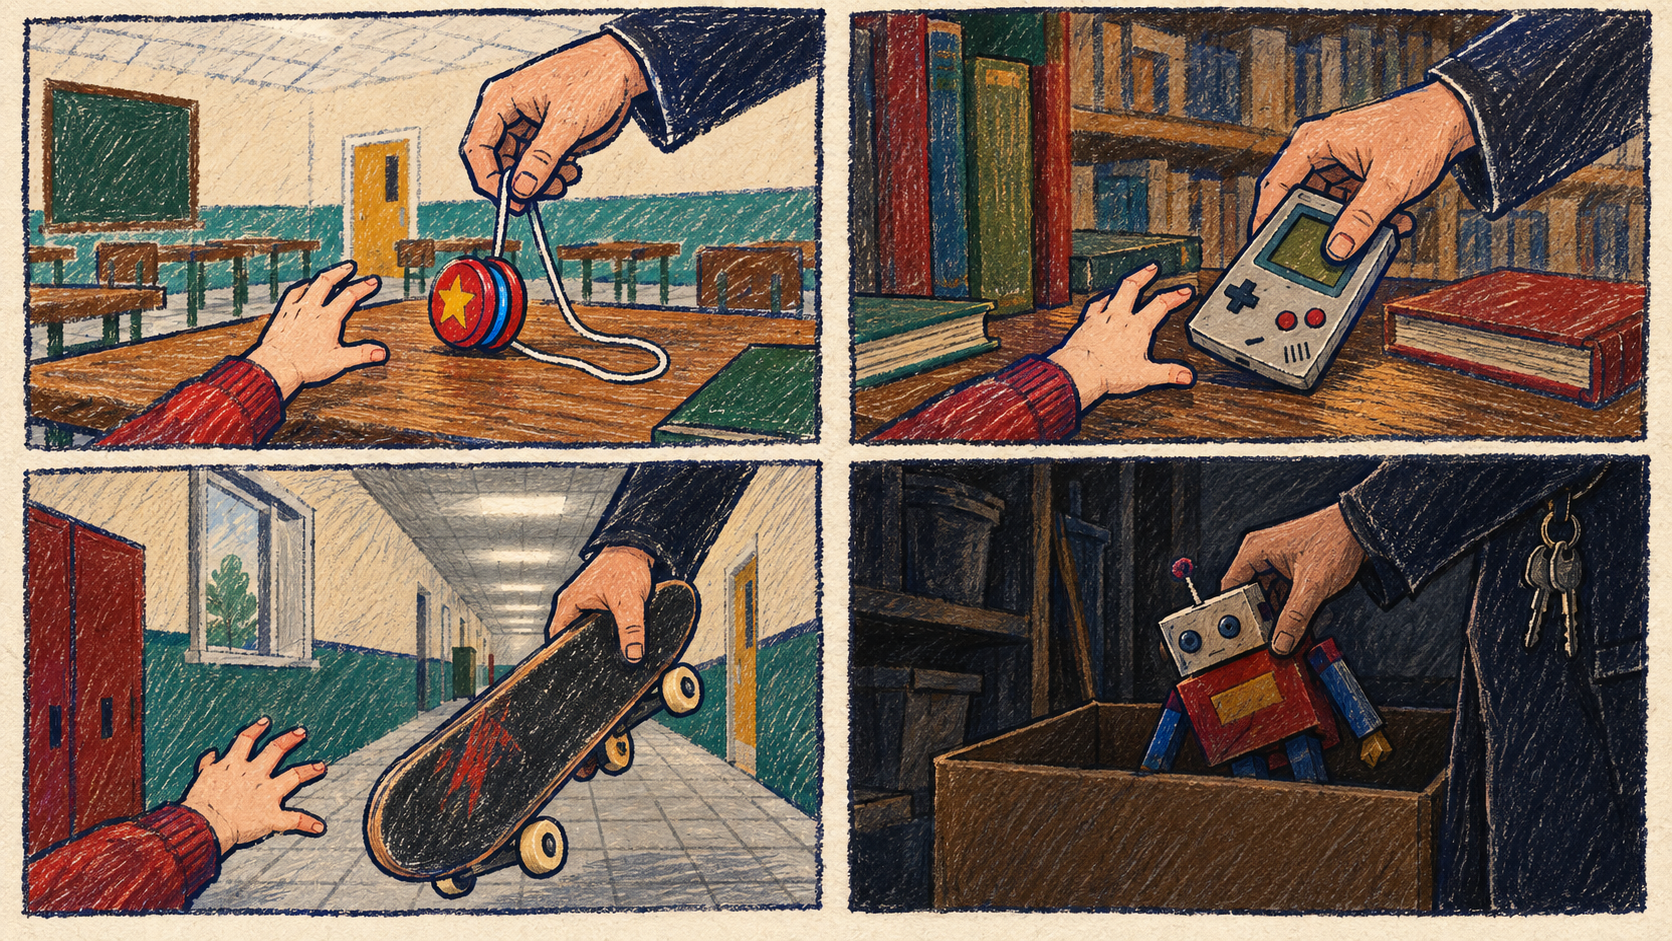
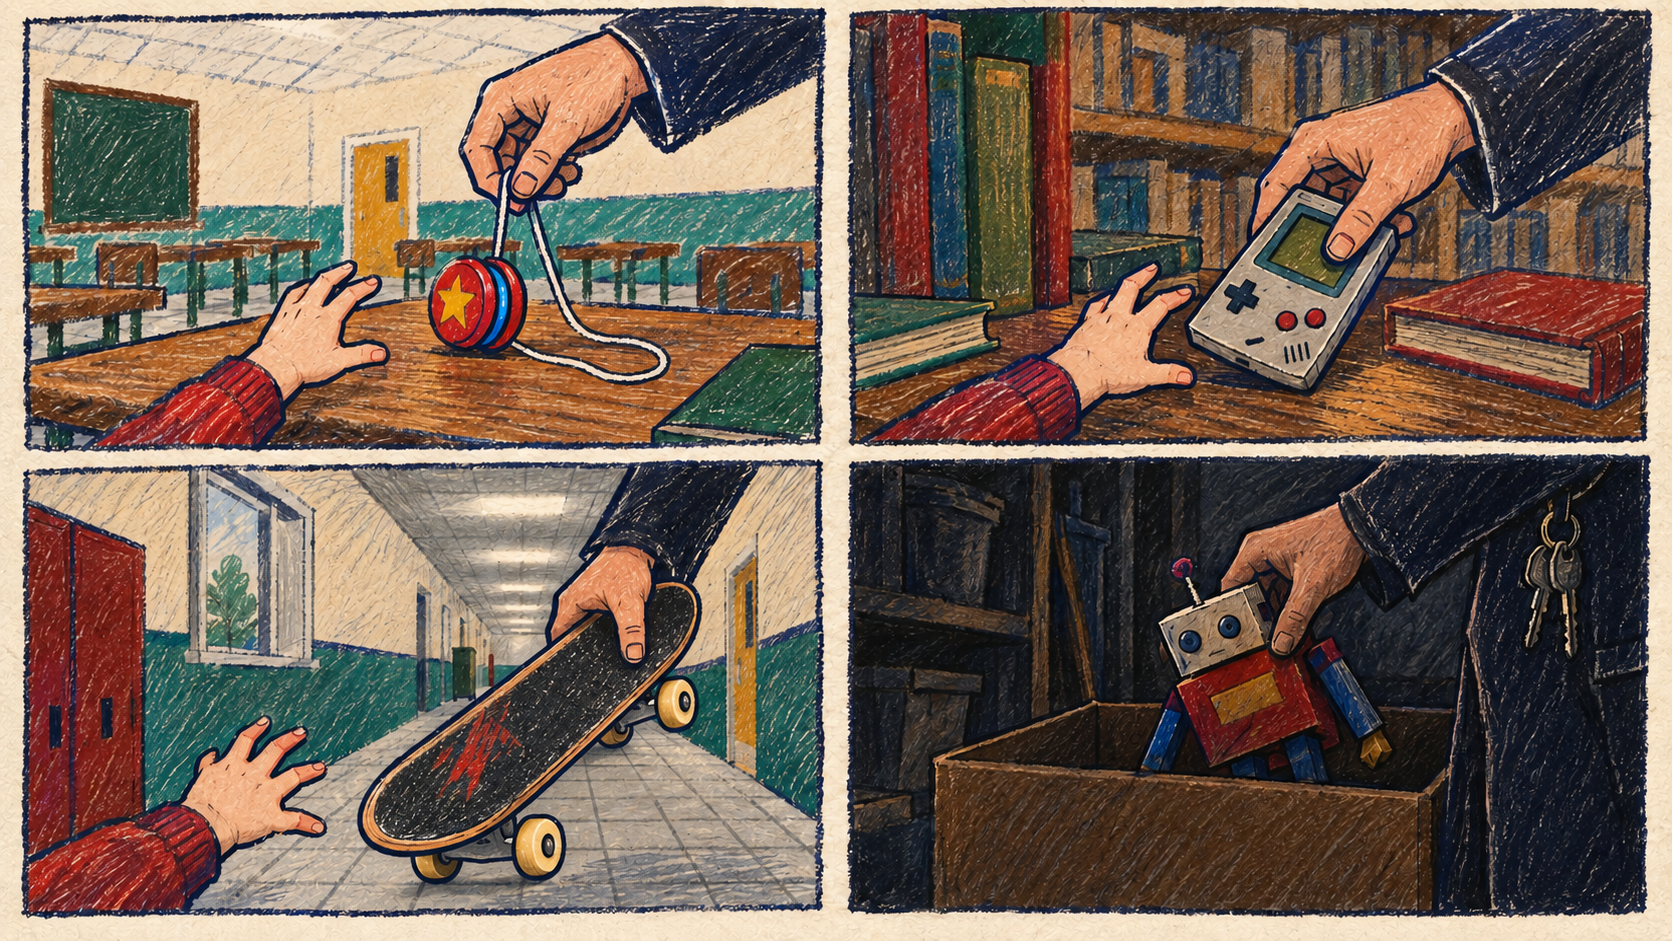
Move comic memory after phone confiscation and add motion shots

diff --git a/Assets/Scripts/Confiscated/OpeningDiaryComic.cs b/Assets/Scripts/Confiscated/OpeningDiaryComic.cs
@@ -1,11 +1,12 @@
 using System;
+using System.Collections.Generic;
 using UnityEngine;
 using UnityEngine.InputSystem;
 using UnityEngine.UI;
 
 namespace Confiscated
 {
-    /// <summary>A short illustrated diary entry before the live classroom phone incident.</summary>
+    /// <summary>Smith's moving diary recollection after the classroom phone confiscation.</summary>
     public sealed class OpeningDiaryComic : MonoBehaviour
     {
         static readonly string[] Lines =
@@ -14,9 +15,9 @@ namespace Confiscated
             "Then my game. I wasn't even playing it.",
             "The skateboard went next. The wheels hadn't touched the floor.",
             "Even my robot. The caretaker says I can have them back at the end of term.",
-            "That's four things. I'm getting them back before I go home."
+            "Now my phone makes five. I'm getting them all back today."
         };
-        static readonly float[] Seconds = { 4.8f, 4.8f, 4.8f, 6f, 5f };
+        static readonly float[] Seconds = { 3.6f, 3.6f, 3.6f, 4.2f, 4.5f };
         static readonly Color Paper = new Color(.95f,.91f,.77f), Ink = new Color(.07f,.09f,.13f);
 
         public static bool Show(FirstPersonController movement, PlayerInteractor interactor, Action finished)
@@ -32,9 +33,13 @@ namespace Confiscated
         PlayerInteractor interactor;
         Action finished;
         CanvasGroup group;
+        Canvas canvas;
+        readonly List<Canvas> hiddenCanvases=new();
         RectTransform page, frame;
+        Image background, headerBackdrop, footerBackdrop, transition;
         Image[] covers;
         Text caption, progress;
+        OpeningMemoryStage stage;
         float oldTime, startedAt, beatAt, skipHeld;
         bool oldMove, oldLook, oldInput, oldCursorVisible, ending;
         CursorLockMode oldCursorLock;
@@ -48,21 +53,25 @@ namespace Confiscated
             if(interactor!=null){oldInput=interactor.InputLocked;interactor.InputLocked=true;interactor.SuppressActionsThisFrame();}
             oldCursorLock=Cursor.lockState;oldCursorVisible=Cursor.visible;
             Cursor.lockState=CursorLockMode.None;Cursor.visible=false;
-            Build(art);beat=0;startedAt=beatAt=Time.unscaledTime;SetBeat();
+            Build(art);stage=OpeningMemoryStage.Create(art);
+            HideOtherCanvases();
+            beat=0;startedAt=beatAt=Time.unscaledTime;SetBeat();
         }
 
         void Build(Texture2D art)
         {
             var root=new GameObject("Diary canvas",typeof(Canvas),typeof(CanvasScaler),typeof(GraphicRaycaster),typeof(CanvasGroup));
             root.transform.SetParent(transform,false);
-            var canvas=root.GetComponent<Canvas>();canvas.renderMode=RenderMode.ScreenSpaceOverlay;canvas.sortingOrder=30001;
+            canvas=root.GetComponent<Canvas>();canvas.renderMode=RenderMode.ScreenSpaceOverlay;canvas.sortingOrder=30001;
             var scaler=root.GetComponent<CanvasScaler>();scaler.uiScaleMode=CanvasScaler.ScaleMode.ScaleWithScreenSize;
             scaler.referenceResolution=new Vector2(1920,1080);scaler.matchWidthOrHeight=1f;
             group=root.GetComponent<CanvasGroup>();group.blocksRaycasts=true;group.alpha=0;
-            var background=ImageRect("Ink surround",root.transform,Vector2.zero,new Vector2(1920,1080),new Color(.025f,.035f,.045f,1));
+            background=ImageRect("Ink surround",root.transform,Vector2.zero,new Vector2(1920,1080),new Color(.025f,.035f,.045f,1));
             background.rectTransform.anchorMin=Vector2.zero;background.rectTransform.anchorMax=Vector2.one;
             background.rectTransform.offsetMin=background.rectTransform.offsetMax=Vector2.zero;
             background.raycastTarget=true;
+            headerBackdrop=ImageRect("Memory heading backing",root.transform,new Vector2(0,478),new Vector2(1390,102),new Color(.025f,.035f,.045f,.88f));
+            headerBackdrop.raycastTarget=false;
             Label("DEAR DIARY...",root.transform,new Vector2(0,497),new Vector2(1300,65),50,Paper,TextAnchor.MiddleLeft);
             Label("MASTER SMITH  /  YEAR 6",root.transform,new Vector2(0,458),new Vector2(1300,35),23,new Color(.74f,.7f,.59f),TextAnchor.MiddleRight);
             page=Rect("Four confiscations",root.transform,new Vector2(0,22),new Vector2(1320,812));
@@ -81,8 +90,14 @@ namespace Confiscated
             var noteBorder=Rect("Pencil edge",note.transform,Vector2.zero,new Vector2(1370,122)).gameObject.AddComponent<SketchBorder>();
             noteBorder.color=Ink;noteBorder.raycastTarget=false;
             caption=Label("",note.transform,Vector2.zero,new Vector2(1260,90),34,Ink,TextAnchor.MiddleLeft);
+            footerBackdrop=ImageRect("Memory controls backing",root.transform,new Vector2(0,-516),new Vector2(1390,54),new Color(.025f,.035f,.045f,.9f));
+            footerBackdrop.raycastTarget=false;
             progress=Label("",root.transform,new Vector2(-545,-518),new Vector2(300,28),20,Paper,TextAnchor.MiddleLeft);
             Label("SPACE / CLICK: NEXT     HOLD ESC: SKIP",root.transform,new Vector2(355,-518),new Vector2(670,28),20,Paper,TextAnchor.MiddleRight);
+            transition=ImageRect("Ink cut",root.transform,Vector2.zero,new Vector2(1920,1080),new Color(.025f,.035f,.045f,0));
+            transition.rectTransform.anchorMin=Vector2.zero;transition.rectTransform.anchorMax=Vector2.one;
+            transition.rectTransform.offsetMin=transition.rectTransform.offsetMax=Vector2.zero;
+            transition.raycastTarget=false;
         }
 
         void Update()
@@ -102,6 +117,14 @@ namespace Confiscated
                 beatAt=now;SetBeat();
             }
             group.alpha=Mathf.Clamp01((now-startedAt)/.35f);
+            if(stage!=null)
+            {
+                float elapsed=now-beatAt,duration=Seconds[beat];
+                stage.Animate(beat,elapsed/duration);
+                float ink=elapsed<.22f?1-elapsed/.22f:beat<4&&duration-elapsed<.22f?1-(duration-elapsed)/.22f:0;
+                var shade=transition.color;shade.a=Mathf.Clamp01(ink);transition.color=shade;
+                return;
+            }
             for(int i=0;i<4;i++)
             {
                 var color=covers[i].color;
@@ -117,9 +140,28 @@ namespace Confiscated
             }
         }
 
+        void LateUpdate(){HideOtherCanvases();}
+
+        void HideOtherCanvases()
+        {
+            foreach(var other in FindObjectsByType<Canvas>(FindObjectsInactive.Include))
+                if(other!=canvas&&other.enabled&&other.gameObject.activeInHierarchy&&other.renderMode!=RenderMode.WorldSpace)
+                {hiddenCanvases.Add(other);other.enabled=false;}
+        }
+
         void SetBeat()
         {
-            caption.text=Lines[beat];progress.text=beat<4?"PAGE 1  /  "+(beat+1)+" OF 4":"PAGE 1  /  THE PLAN";
+            caption.text=Lines[beat];progress.text=beat<4?(stage!=null?"MEMORY  ":"PAGE 1  /  ")+(beat+1)+" OF 4":"PAGE 1  /  THE PLAN";
+            if(stage!=null)
+            {
+                stage.ShowBeat(beat);
+                page.gameObject.SetActive(beat==4);
+                headerBackdrop.gameObject.SetActive(beat<4);
+                footerBackdrop.gameObject.SetActive(beat<4);
+                var colour=background.color;colour.a=beat==4?1:0;background.color=colour;
+                foreach(var cover in covers){colour=cover.color;colour.a=0;cover.color=colour;}
+            }
+            else {headerBackdrop.gameObject.SetActive(false);footerBackdrop.gameObject.SetActive(false);}
             frame.gameObject.SetActive(beat<4);
         }
 
@@ -130,6 +172,9 @@ namespace Confiscated
             if(movement!=null){movement.MovementLocked=oldMove;movement.LookLocked=oldLook;}
             if(interactor!=null){interactor.InputLocked=oldInput;interactor.SuppressActionsThisFrame();}
             Cursor.lockState=oldCursorLock;Cursor.visible=oldCursorVisible;
+            stage?.Dispose();stage=null;
+            foreach(var other in hiddenCanvases)if(other!=null)other.enabled=true;
+            hiddenCanvases.Clear();
             var callback=finished;finished=null;Destroy(gameObject);callback?.Invoke();
         }
 

diff --git a/Assets/Scripts/Confiscated/OpeningMemoryStage.cs b/Assets/Scripts/Confiscated/OpeningMemoryStage.cs
@@ -1,0 +1,99 @@
+using System;
+using UnityEngine;
+
+namespace Confiscated
+{
+    /// <summary>A temporary, isolated 3D set for the moving shots in the diary opening.</summary>
+    internal sealed class OpeningMemoryStage
+    {
+        const int Layer = 31;
+        static readonly Vector2[] PanelOffsets =
+        {
+            new Vector2(0,.5f), new Vector2(.5f,.5f),
+            new Vector2(0,0), new Vector2(.5f,0)
+        };
+
+        GameObject root;
+        Camera camera;
+        Material paper,backing;
+        Transform panel;
+
+        public static OpeningMemoryStage Create(Texture2D art)
+        {
+            var stage=new OpeningMemoryStage();
+            try { stage.Build(art);return stage; }
+            catch(Exception error)
+            {
+                Debug.LogWarning("Opening memory stage unavailable; using the diary page. " + error.Message);
+                stage.Dispose();return null;
+            }
+        }
+
+        void Build(Texture2D art)
+        {
+            var shader=Shader.Find("Universal Render Pipeline/Unlit");
+            if(shader==null)throw new InvalidOperationException("URP Unlit shader missing.");
+            root=new GameObject("Opening memory set");root.transform.position=new Vector3(0,-100,0);
+
+            var cameraObject=new GameObject("Memory camera",typeof(Camera));
+            cameraObject.transform.SetParent(root.transform,false);
+            camera=cameraObject.GetComponent<Camera>();
+            camera.clearFlags=CameraClearFlags.SolidColor;
+            camera.backgroundColor=new Color(.02f,.033f,.043f);
+            camera.cullingMask=1<<Layer;camera.depth=100;
+            camera.nearClipPlane=.03f;camera.farClipPlane=30f;
+            camera.fieldOfView=48f;camera.allowHDR=false;
+
+            var page=GameObject.CreatePrimitive(PrimitiveType.Quad);
+            page.name="Moving illustrated memory";page.transform.SetParent(root.transform,false);
+            page.transform.localPosition=new Vector3(0,0,1.5f);
+            page.transform.localScale=new Vector3(8.8f,4.95f,1);
+            panel=page.transform;page.layer=Layer;
+            UnityEngine.Object.Destroy(page.GetComponent<Collider>());
+            paper=new Material(shader){name="Opening memory paper"};
+            paper.SetTexture("_BaseMap",art);
+            paper.SetColor("_BaseColor",Color.white);
+            paper.SetTextureScale("_BaseMap",new Vector2(.5f,.5f));
+            page.GetComponent<Renderer>().sharedMaterial=paper;
+
+            var edge=GameObject.CreatePrimitive(PrimitiveType.Quad);
+            edge.name="Paper edge";edge.transform.SetParent(root.transform,false);
+            edge.transform.localPosition=new Vector3(0,0,2f);
+            edge.transform.localScale=new Vector3(9.05f,5.2f,1);
+            edge.layer=Layer;UnityEngine.Object.Destroy(edge.GetComponent<Collider>());
+            backing=new Material(shader){name="Memory ink edge"};
+            backing.SetColor("_BaseColor",new Color(.035f,.052f,.07f));
+            edge.GetComponent<Renderer>().sharedMaterial=backing;
+            ShowBeat(0);Animate(0,0);
+        }
+
+        public void ShowBeat(int beat)
+        {
+            if(camera==null)return;
+            camera.enabled=beat<4;
+            if(beat<4)paper.SetTextureOffset("_BaseMap",PanelOffsets[beat]);
+        }
+
+        public void Animate(int beat,float progress)
+        {
+            if(camera==null||beat>=4)return;
+            float t=Mathf.SmoothStep(0,1,Mathf.Clamp01(progress));
+            float direction=beat%2==0?1f:-1f;
+            camera.transform.localPosition=new Vector3(Mathf.Lerp(-.55f,.55f,t)*direction,
+                Mathf.Lerp(beat==2 ? .2f : -.1f,beat==2 ? -.12f : .1f,t),Mathf.Lerp(-6.2f,-4.8f,t));
+            camera.transform.LookAt(root.transform.TransformPoint(new Vector3(0,0,.15f)));
+            camera.fieldOfView=Mathf.Lerp(50f,42f,t);
+            panel.localPosition=new Vector3(Mathf.Lerp(.16f,-.16f,t)*direction,0,1.5f);
+            panel.localRotation=Quaternion.Euler(Mathf.Lerp(-1.6f,1.6f,t),
+                Mathf.Lerp(-3.2f,3.2f,t)*direction,Mathf.Sin(t*Mathf.PI)*.5f);
+        }
+
+        public void Dispose()
+        {
+            if(root!=null)UnityEngine.Object.Destroy(root);
+            if(paper!=null)UnityEngine.Object.Destroy(paper);
+            if(backing!=null)UnityEngine.Object.Destroy(backing);
+            root=null;camera=null;paper=null;backing=null;
+        }
+    }
+}

diff --git a/Assets/Scripts/Confiscated/GameManager.cs b/Assets/Scripts/Confiscated/GameManager.cs
@@ -52,18 +52,13 @@ namespace Confiscated
             else BeginSchoolDay();
         }
 
-        public void BeginSchoolDay(bool skipDiary = false)
+        public void BeginSchoolDay()
         {
             if(dayStarted)return;dayStarted=true;
-            if(!skipDiary&&schoolPeriod!=null&&SchoolRunController.Instance!=null)
-            {
-                Current=State.Menu;
-                if(OpeningDiaryComic.Show(player,interactor,BeginSchoolDayAfterDiary))return;
-            }
-            BeginSchoolDayAfterDiary();
+            StartSchoolPeriod();
         }
 
-        void BeginSchoolDayAfterDiary()
+        void StartSchoolPeriod()
         {
             Current=State.Playing;
             GetComponent<DarkModeController>()?.Begin();
@@ -298,7 +293,7 @@ namespace Confiscated
         {
             // Let scene components initialize before replacing the classroom introduction.
             yield return null;
-            BeginSchoolDay(true);
+            BeginSchoolDay();
             schoolPeriod.PrepareChaseRetry();
             SchoolRunController.Instance.PrepareChaseRetry();
             GetComponent<DarkModeController>()?.PrepareRetry();

diff --git a/Assets/Scripts/Confiscated/SchoolPeriodController.cs b/Assets/Scripts/Confiscated/SchoolPeriodController.cs
@@ -151,7 +151,12 @@ namespace Confiscated
             Current=Phase.Volunteer;
             if(QuickOpening)
             {
-                // The handoff is the end of the introduction: release the player while Reed returns.
+                HudController.Instance?.SetStatus("Smith: This is the last straw.",5);
+                yield return new WaitUntil(() => !ComicDialogue.IsActive);
+                bool memoryFinished=false;
+                if(OpeningDiaryComic.Show(movement,Player,()=>memoryFinished=true))
+                    yield return new WaitUntil(() => memoryFinished);
+                // The memory ends at the classroom handoff; release Smith for the errand.
                 Volunteer();
                 StartCoroutine(Travel(teacher,teacherHome.position));
             }

diff --git a/Assets/Scripts/Confiscated/ComicDialogue.cs b/Assets/Scripts/Confiscated/ComicDialogue.cs
@@ -94,7 +94,7 @@ namespace Confiscated
                 string s=paragraph.Trim();if(s.Length==0)continue;
                 int split=s.IndexOf(':');
                 string who=split>=0?s.Substring(0,split):"";
-                if(who=="Mr Reed"||who=="Caretaker"||who=="Miss D Tenison"||who=="PHONE")
+                if(who=="Mr Reed"||who=="Caretaker"||who=="Miss D Tenison"||who=="PHONE"||who=="Smith")
                     parsed.Add(new Line{speaker=who,text=s.Substring(split+1).Trim()});
                 else if(parsed.Count>0){var line=parsed[parsed.Count-1];line.text+="\n"+s;parsed[parsed.Count-1]=line;}
                 else return false;
